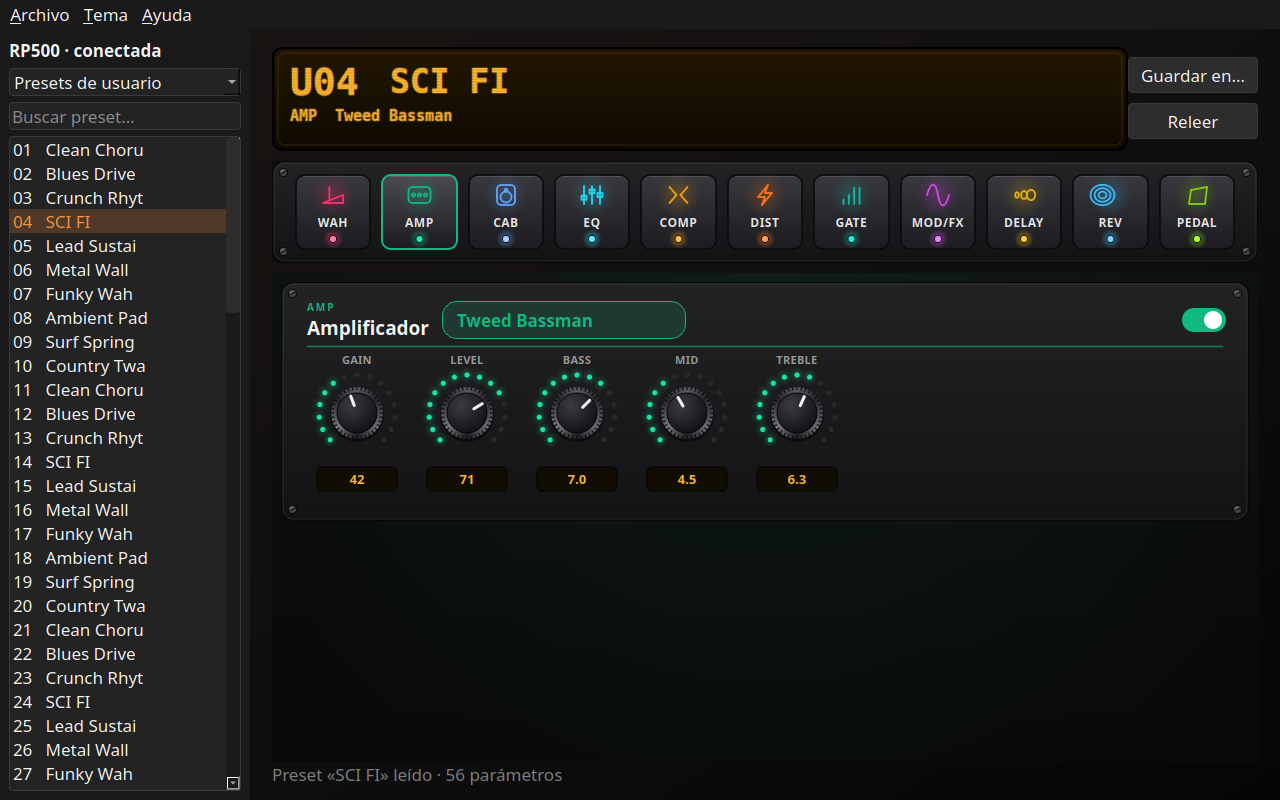
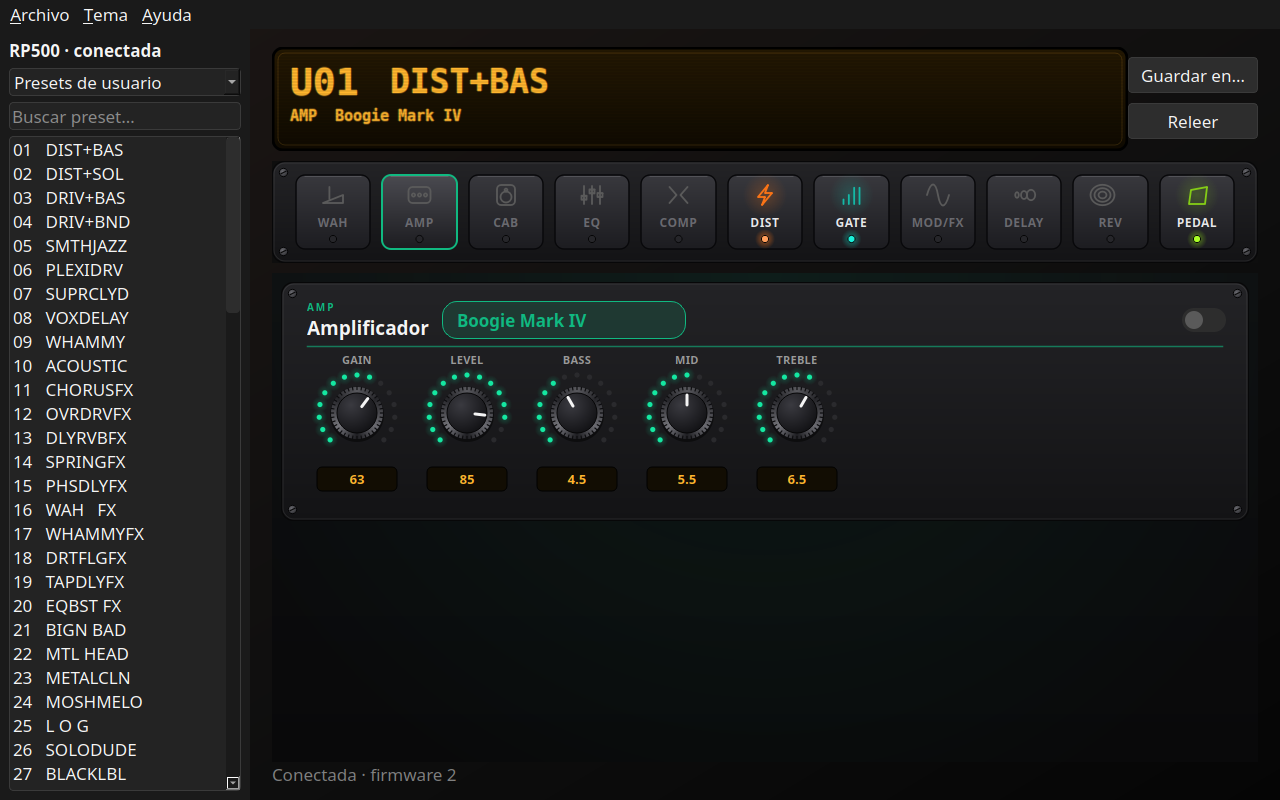
Replace README screenshots with captures from a real RP500

diff --git a/README.md b/README.md
@@ -16,8 +16,6 @@ buttons (one colour per effect) and hardware knobs with LED rings.
 |---|---|
 | ![Connection screen](docs/connect.png) | ![Editing the delay block](docs/delay.png) |
 
-> Captured with a simulated pedal (no hardware attached), so the values are illustrative.
-
 ## What it does
 
 - **Connection screen**: looks for the RP500 over USB and connects when you click the device. If it is unplugged, the app
